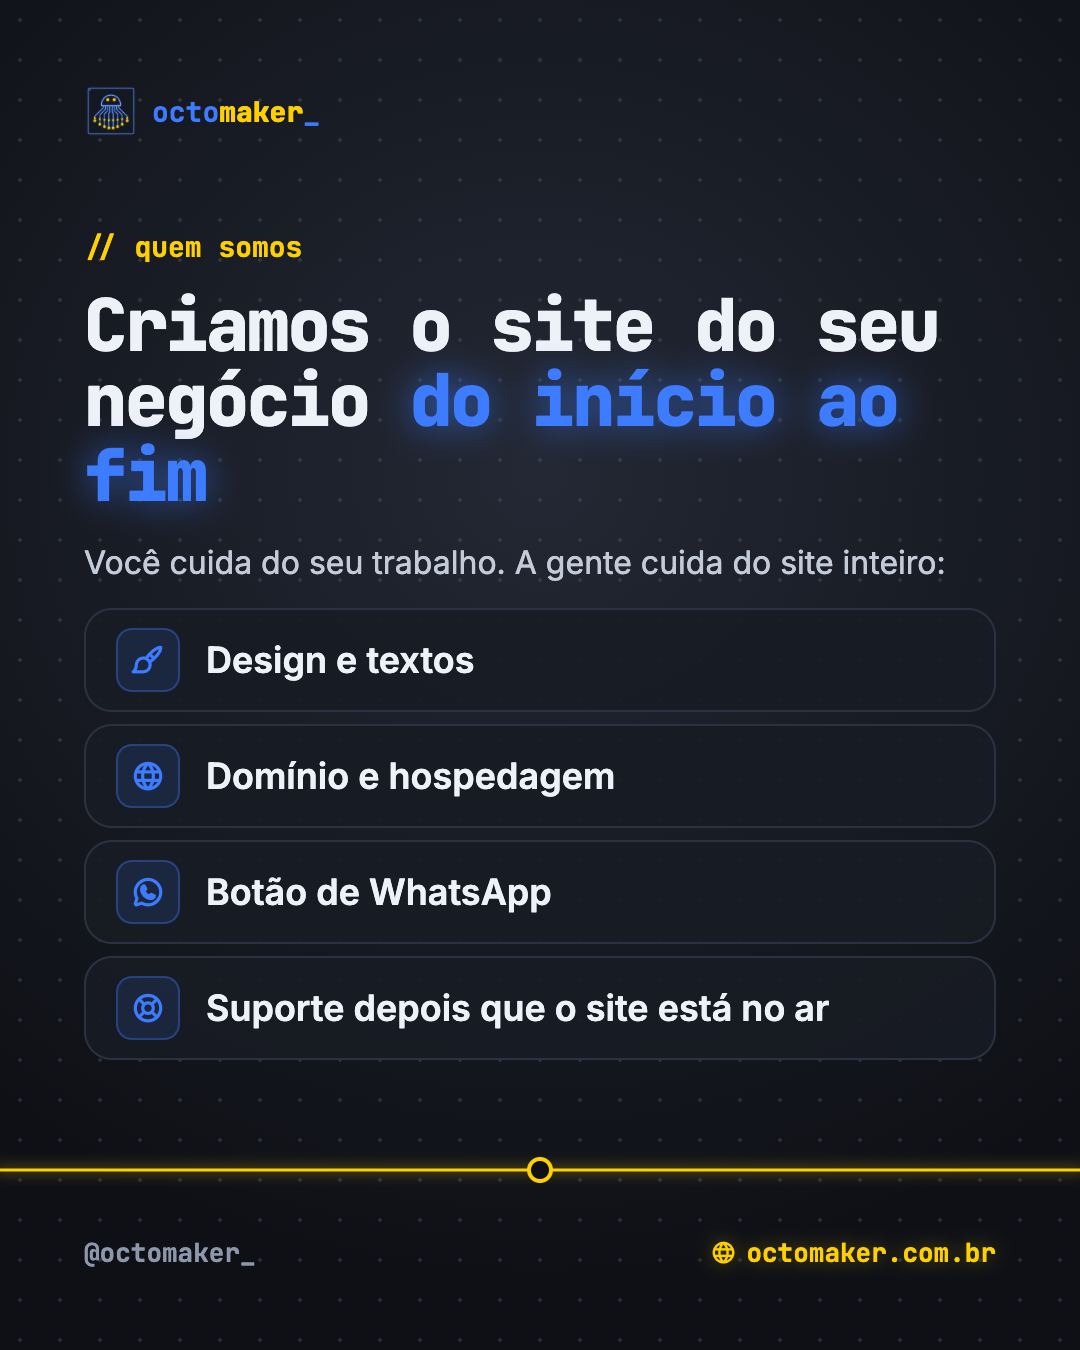
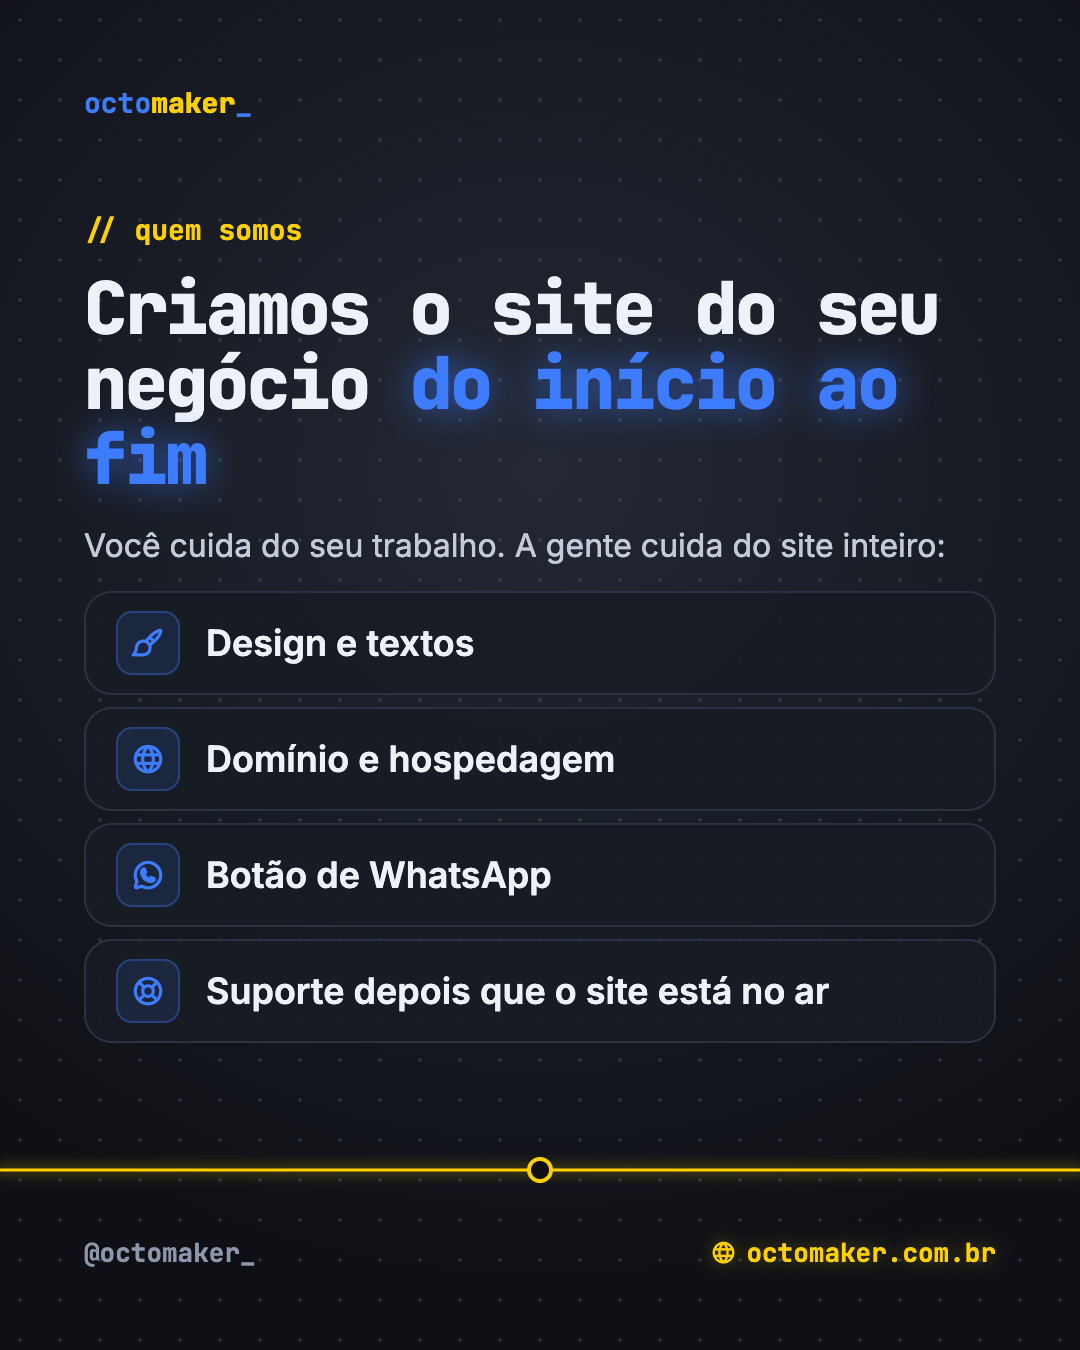
Posts sem a moeda e sem o slide do polvo

Changed region(s): [[0.0611, 0.1556, 0.9167, 0.7778], [0.0611, 0.0622, 0.275, 0.0933]]

diff --git a/instagram/_fontes/c1.html b/instagram/_fontes/c1.html
@@ -25,13 +25,12 @@ h1 .y { color:var(--yellow); text-shadow:0 0 36px #ffd00088; }
 .ico { flex:none; width:64px; height:64px; border-radius:16px; background:#3d7bff1f; border:2px solid #3d7bff55; color:var(--blue); display:grid; place-items:center; font-size:34px; }
 .ico.y { background:#ffd0001a; border-color:#ffd00066; color:var(--yellow); }
 .trace { position:absolute; left:0; right:0; top:1150px; height:40px; z-index:1; }
-</style></head><body><div class="page"><div class="top"><span class="brand"><img src="../../marca/logo/octomaker-moeda-frente.png" alt=""><span>octo<b>maker</b>_</span></span><span class="swipe">arraste <i class="ph-bold ph-arrow-right"></i></span></div>
-<div style="margin-top:110px">
+</style></head><body><div class="page"><div class="top"><span class="brand"><span>octo<b>maker</b>_</span></span><span class="swipe">arraste <i class="ph-bold ph-arrow-right"></i></span></div>
+<div style="margin-top:230px">
   <div class="eyebrow">// olá, somos a OctoMaker</div>
-  <h1 style="margin-top:26px">Seu negócio merece um <span class="b">site</span> profissional<span class="y">_</span></h1>
+  <h1 style="margin-top:30px;font-size:104px">Seu negócio merece um <span class="b">site</span> profissional<span class="y">_</span></h1>
   <p class="lead" style="margin-top:34px;max-width:620px">Bonitos, rápidos e prontos em poucos dias.</p>
 </div>
-<img src="../../marca/logo/octomaker-moeda-frente.png" style="position:absolute;right:40px;top:640px;width:430px;filter:drop-shadow(0 30px 60px #3d7bff44)">
 <div class="foot"><span>@octomaker_</span><span class="url"><i class="ph-bold ph-globe"></i>octomaker.com.br</span></div></div><svg class="trace" viewBox="0 0 1080 40"><g fill="none" stroke="#ffd000" stroke-linecap="round">
       <path d="M84 20 H1080" stroke-width="10" opacity=".25" style="filter:blur(6px)"/><path d="M84 20 H1080" stroke-width="3"/>
       <circle cx="84" cy="20" r="11" stroke-width="4" fill="#0e1015"/></g></svg></body></html>

diff --git a/instagram/_fontes/c7.html b/instagram/_fontes/c7.html
@@ -25,10 +25,9 @@ h1 .y { color:var(--yellow); text-shadow:0 0 36px #ffd00088; }
 .ico { flex:none; width:64px; height:64px; border-radius:16px; background:#3d7bff1f; border:2px solid #3d7bff55; color:var(--blue); display:grid; place-items:center; font-size:34px; }
 .ico.y { background:#ffd0001a; border-color:#ffd00066; color:var(--yellow); }
 .trace { position:absolute; left:0; right:0; top:1150px; height:40px; z-index:1; }
-</style></head><body><div class="page"><div class="top"><span class="brand"><img src="../../marca/logo/octomaker-moeda-frente.png" alt=""><span>octo<b>maker</b>_</span></span></div>
-<div style="margin-top:80px;text-align:center;display:flex;flex-direction:column;align-items:center">
-  <img src="../../marca/logo/octomaker-moeda-verso.png" style="width:330px;filter:drop-shadow(0 20px 50px #3d7bff44)">
-  <h1 style="margin-top:40px">Vamos fazer o <span class="b">seu</span>?</h1>
+</style></head><body><div class="page"><div class="top"><span class="brand"><span>octo<b>maker</b>_</span></span></div>
+<div style="margin-top:250px;text-align:center;display:flex;flex-direction:column;align-items:center">
+  <h1 style="font-size:100px">Vamos fazer o <span class="b">seu</span>?</h1>
   <p class="lead" style="margin-top:24px">Veja os modelos de site em</p>
   <p style="font:800 64px var(--mono);color:var(--yellow);text-shadow:0 0 30px #ffd00088;margin-top:10px">octomaker.com.br</p>
   <p class="lead" style="margin-top:22px;font-size:32px">ou chama no direct <i class="ph-bold ph-paper-plane-tilt" style="color:var(--blue)"></i></p>

diff --git a/instagram/_fontes/google.html b/instagram/_fontes/google.html
@@ -25,7 +25,7 @@ h1 .y { color:var(--yellow); text-shadow:0 0 36px #ffd00088; }
 .ico { flex:none; width:64px; height:64px; border-radius:16px; background:#3d7bff1f; border:2px solid #3d7bff55; color:var(--blue); display:grid; place-items:center; font-size:34px; }
 .ico.y { background:#ffd0001a; border-color:#ffd00066; color:var(--yellow); }
 .trace { position:absolute; left:0; right:0; top:1150px; height:40px; z-index:1; }
-</style></head><body><div class="page"><div class="top"><span class="brand"><img src="../../marca/logo/octomaker-moeda-frente.png" alt=""><span>octo<b>maker</b>_</span></span></div>
+</style></head><body><div class="page"><div class="top"><span class="brand"><span>octo<b>maker</b>_</span></span></div>
 <div style="margin-top:80px">
   <div class="eyebrow">// Google</div>
   <h1 style="margin-top:24px;font-size:76px">Quando alguém pesquisa o seu serviço, <span class="b">você aparece?</span></h1>

diff --git a/instagram/_fontes/c2.html b/instagram/_fontes/c2.html
@@ -25,7 +25,7 @@ h1 .y { color:var(--yellow); text-shadow:0 0 36px #ffd00088; }
 .ico { flex:none; width:64px; height:64px; border-radius:16px; background:#3d7bff1f; border:2px solid #3d7bff55; color:var(--blue); display:grid; place-items:center; font-size:34px; }
 .ico.y { background:#ffd0001a; border-color:#ffd00066; color:var(--yellow); }
 .trace { position:absolute; left:0; right:0; top:1150px; height:40px; z-index:1; }
-</style></head><body><div class="page"><div class="top"><span class="brand"><img src="../../marca/logo/octomaker-moeda-frente.png" alt=""><span>octo<b>maker</b>_</span></span></div>
+</style></head><body><div class="page"><div class="top"><span class="brand"><span>octo<b>maker</b>_</span></span></div>
 <div style="margin-top:90px">
   <div class="eyebrow">// quem somos</div>
   <h1 style="margin-top:24px;font-size:72px">Criamos o site do seu negócio <span class="b">do início ao fim</span></h1>

diff --git a/instagram/_fontes/whatsapp.html b/instagram/_fontes/whatsapp.html
@@ -25,7 +25,7 @@ h1 .y { color:var(--yellow); text-shadow:0 0 36px #ffd00088; }
 .ico { flex:none; width:64px; height:64px; border-radius:16px; background:#3d7bff1f; border:2px solid #3d7bff55; color:var(--blue); display:grid; place-items:center; font-size:34px; }
 .ico.y { background:#ffd0001a; border-color:#ffd00066; color:var(--yellow); }
 .trace { position:absolute; left:0; right:0; top:1150px; height:40px; z-index:1; }
-</style></head><body><div class="page"><div class="top"><span class="brand"><img src="../../marca/logo/octomaker-moeda-frente.png" alt=""><span>octo<b>maker</b>_</span></span></div>
+</style></head><body><div class="page"><div class="top"><span class="brand"><span>octo<b>maker</b>_</span></span></div>
 <div style="margin-top:80px">
   <div class="eyebrow">// WhatsApp</div>
   <h1 style="margin-top:24px;font-size:76px">O cliente chega no WhatsApp <span class="b">sabendo o que quer</span></h1>

diff --git a/instagram/_fontes/linkbio.html b/instagram/_fontes/linkbio.html
@@ -25,7 +25,7 @@ h1 .y { color:var(--yellow); text-shadow:0 0 36px #ffd00088; }
 .ico { flex:none; width:64px; height:64px; border-radius:16px; background:#3d7bff1f; border:2px solid #3d7bff55; color:var(--blue); display:grid; place-items:center; font-size:34px; }
 .ico.y { background:#ffd0001a; border-color:#ffd00066; color:var(--yellow); }
 .trace { position:absolute; left:0; right:0; top:1150px; height:40px; z-index:1; }
-</style></head><body><div class="page"><div class="top"><span class="brand"><img src="../../marca/logo/octomaker-moeda-frente.png" alt=""><span>octo<b>maker</b>_</span></span></div>
+</style></head><body><div class="page"><div class="top"><span class="brand"><span>octo<b>maker</b>_</span></span></div>
 <div style="margin-top:80px">
   <div class="eyebrow">// link na bio</div>
   <h1 style="margin-top:24px;font-size:80px">Troque a lista de links por um <span class="b">site</span></h1>

diff --git a/instagram/_fontes/motivos.html b/instagram/_fontes/motivos.html
@@ -25,7 +25,7 @@ h1 .y { color:var(--yellow); text-shadow:0 0 36px #ffd00088; }
 .ico { flex:none; width:64px; height:64px; border-radius:16px; background:#3d7bff1f; border:2px solid #3d7bff55; color:var(--blue); display:grid; place-items:center; font-size:34px; }
 .ico.y { background:#ffd0001a; border-color:#ffd00066; color:var(--yellow); }
 .trace { position:absolute; left:0; right:0; top:1150px; height:40px; z-index:1; }
-</style></head><body><div class="page"><div class="top"><span class="brand"><img src="../../marca/logo/octomaker-moeda-frente.png" alt=""><span>octo<b>maker</b>_</span></span></div>
+</style></head><body><div class="page"><div class="top"><span class="brand"><span>octo<b>maker</b>_</span></span></div>
 <div style="margin-top:80px">
   <div class="eyebrow">// além do Instagram</div>
   <h1 style="margin-top:24px;font-size:82px">3 motivos para ter um <span class="b">site</span></h1>

diff --git a/instagram/_fontes/checklist.html b/instagram/_fontes/checklist.html
@@ -25,7 +25,7 @@ h1 .y { color:var(--yellow); text-shadow:0 0 36px #ffd00088; }
 .ico { flex:none; width:64px; height:64px; border-radius:16px; background:#3d7bff1f; border:2px solid #3d7bff55; color:var(--blue); display:grid; place-items:center; font-size:34px; }
 .ico.y { background:#ffd0001a; border-color:#ffd00066; color:var(--yellow); }
 .trace { position:absolute; left:0; right:0; top:1150px; height:40px; z-index:1; }
-</style></head><body><div class="page"><div class="top"><span class="brand"><img src="../../marca/logo/octomaker-moeda-frente.png" alt=""><span>octo<b>maker</b>_</span></span></div>
+</style></head><body><div class="page"><div class="top"><span class="brand"><span>octo<b>maker</b>_</span></span></div>
 <div style="margin-top:60px">
   <div class="eyebrow">// checklist</div>
   <h1 style="margin-top:24px;font-size:80px">O que um bom site <span class="b">precisa ter</span></h1>

diff --git a/instagram/_fontes/c4.html b/instagram/_fontes/c4.html
@@ -25,7 +25,7 @@ h1 .y { color:var(--yellow); text-shadow:0 0 36px #ffd00088; }
 .ico { flex:none; width:64px; height:64px; border-radius:16px; background:#3d7bff1f; border:2px solid #3d7bff55; color:var(--blue); display:grid; place-items:center; font-size:34px; }
 .ico.y { background:#ffd0001a; border-color:#ffd00066; color:var(--yellow); }
 .trace { position:absolute; left:0; right:0; top:1150px; height:40px; z-index:1; }
-</style></head><body><div class="page"><div class="top"><span class="brand"><img src="../../marca/logo/octomaker-moeda-frente.png" alt=""><span>octo<b>maker</b>_</span></span></div>
+</style></head><body><div class="page"><div class="top"><span class="brand"><span>octo<b>maker</b>_</span></span></div>
 <div style="margin-top:90px">
   <div class="eyebrow">// para que serve</div>
   <h1 style="margin-top:24px">Um site <span class="b">trabalha por você</span></h1>

diff --git a/instagram/_fontes/c5.html b/instagram/_fontes/c5.html
@@ -25,7 +25,7 @@ h1 .y { color:var(--yellow); text-shadow:0 0 36px #ffd00088; }
 .ico { flex:none; width:64px; height:64px; border-radius:16px; background:#3d7bff1f; border:2px solid #3d7bff55; color:var(--blue); display:grid; place-items:center; font-size:34px; }
 .ico.y { background:#ffd0001a; border-color:#ffd00066; color:var(--yellow); }
 .trace { position:absolute; left:0; right:0; top:1150px; height:40px; z-index:1; }
-</style></head><body><div class="page"><div class="top"><span class="brand"><img src="../../marca/logo/octomaker-moeda-frente.png" alt=""><span>octo<b>maker</b>_</span></span></div>
+</style></head><body><div class="page"><div class="top"><span class="brand"><span>octo<b>maker</b>_</span></span></div>
 <div style="margin-top:90px">
   <div class="eyebrow">// todo site inclui</div>
   <h1 style="margin-top:24px">O que você <span class="b">recebe</span></h1>

diff --git a/instagram/_fontes/c6.html b/instagram/_fontes/c6.html
@@ -25,7 +25,7 @@ h1 .y { color:var(--yellow); text-shadow:0 0 36px #ffd00088; }
 .ico { flex:none; width:64px; height:64px; border-radius:16px; background:#3d7bff1f; border:2px solid #3d7bff55; color:var(--blue); display:grid; place-items:center; font-size:34px; }
 .ico.y { background:#ffd0001a; border-color:#ffd00066; color:var(--yellow); }
 .trace { position:absolute; left:0; right:0; top:1150px; height:40px; z-index:1; }
-</style></head><body><div class="page"><div class="top"><span class="brand"><img src="../../marca/logo/octomaker-moeda-frente.png" alt=""><span>octo<b>maker</b>_</span></span></div>
+</style></head><body><div class="page"><div class="top"><span class="brand"><span>octo<b>maker</b>_</span></span></div>
 <div style="margin-top:90px">
   <div class="eyebrow">// passo a passo</div>
   <h1 style="margin-top:24px">Como <span class="b">funciona</span></h1>

diff --git a/instagram/LEIA-ME.md b/instagram/LEIA-ME.md
@@ -20,7 +20,7 @@ Cada pasta tem as imagens e o arquivo legenda.txt. Publique na ordem dos número
 
 | Pasta | Formato | Observação |
 |---|---|---|
-| 01 - Apresentacao | Carrossel com 7 slides | Fixe no topo do perfil. Suba os slides na ordem 1 a 7 |
+| 01 - Apresentacao | Carrossel com 6 slides | Fixe no topo do perfil. Suba os slides na ordem 1 a 6 |
 | 02 - Reels moeda | Reels (vídeo em loop) | Marque "compartilhar também no feed" e use uma música instrumental |
 | 03 a 07 | Post único | Um a cada 2 ou 3 dias |
 
